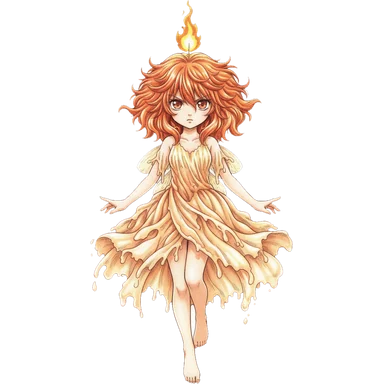
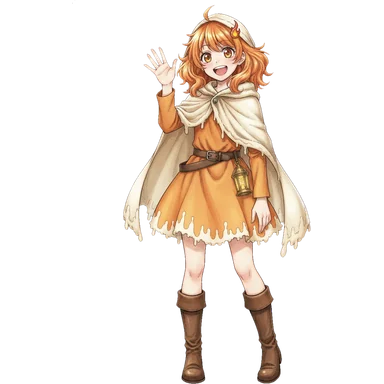
ルミを作り直し（少年漫画のヒロイン・灯りの案内人、表情の差分）
Claude-Session: https://claude.ai/code/session_019xnD9zf1824211ZEpgvXov

Changed region(s): [[0.2188, 0.0, 0.8125, 1.0]]

diff --git a/habit-check/public/sw.js b/habit-check/public/sw.js
@@ -1,5 +1,5 @@
 // 画面ファイルだけをキャッシュする（/api は常にネットワーク）
-const CACHE = "habit-check-v12";
+const CACHE = "habit-check-v13";
 const SHELL = ["./", "index.html", "app.js", "aibou.js", "aibou-sprites.js", "art-index.js", "theater.js", "theater-gl.js", "theater-script.js", "theater-speakers.js", "theater-stage.js", "style.css", "manifest.webmanifest", "icons/icon-192.png", "img/walnut.jpg", "img/oak.jpg"];
 
 self.addEventListener("install", (e) => {

diff --git a/habit-check/public/theater.js b/habit-check/public/theater.js
@@ -16,7 +16,7 @@ const CAST = {
   ムキ: { key: "muki", h: 0.68 },
   フミ: { key: "fumi", h: 0.62 },
   ゼニ: { key: "zeni", h: 0.64 },
-  ルミ: { key: "rumi", h: 0.3, float: true },
+  ルミ: { key: "rumi", h: 0.62 },
   シロガネ: { key: "shirogane", h: 0.7 },
   おばあさん: { key: "obaasan", h: 0.56 },
   レンサ: { key: "rensa", h: 0.56, float: true },
